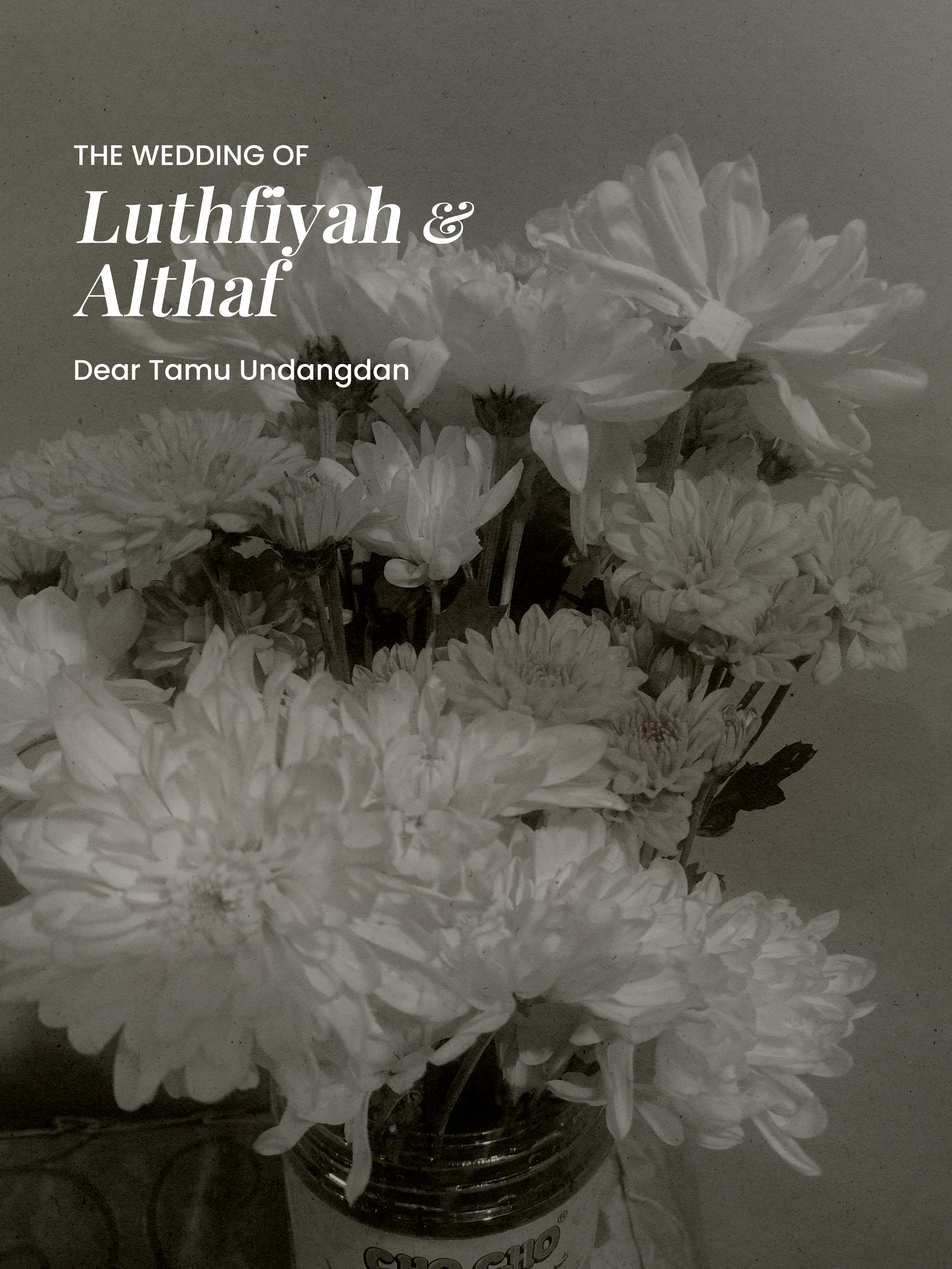
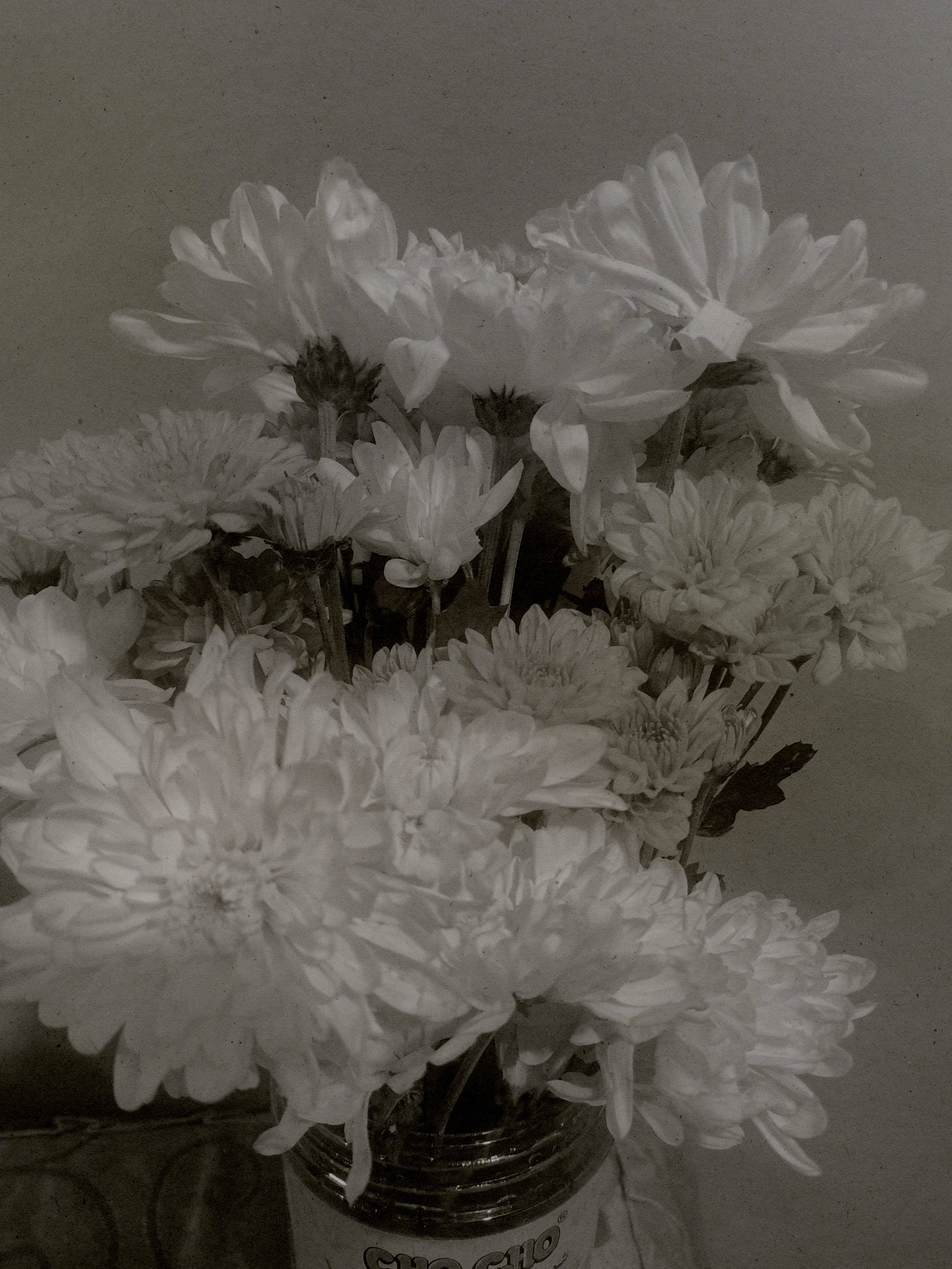
adjust desktop text

Changed region(s): [[0.093, 0.0938, 0.496, 0.25], [0.062, 0.2812, 0.434, 0.3125]]

diff --git a/style.css b/style.css
@@ -23,10 +23,27 @@ body {
   justify-content: flex-end;
 }
 
-.desktop {
-  background-color: red;
-  border:1px solid red;
-  width: 500px;
+.desktop-wrapper {
+  z-index: -1;
+  position: absolute;
+  top: 100px;
+  left: 100px;
+}
+
+.desktop-wrapper > p,
+.desktop-wrapper > h1 {
+  color: white;
+}
+
+.desktop-wrapper > h1 {
+  font-family: "Playfair Display";
+  font-style: italic;
+  font-size: 150px;
+}
+
+.desktop-wrapper > p {
+  color: white;
+  font-size: 50px;
 }
 
 #playback {
@@ -1270,6 +1287,36 @@ p {
   text-align: center;
   width: 60%;
   padding-top: 30px;
+}
+
+@media screen and (max-width: 1440px) {
+  .desktop-wrapper {
+    top: 75px;
+    left: 75px;
+  }
+
+  .desktop-wrapper > h1 {
+    font-size: 100px;
+  }
+
+  .desktop-wrapper > p {
+    font-size: 30px;
+  }
+}
+
+@media screen and (max-width: 1200px) {
+  .desktop-wrapper {
+    top: 40px;
+    left: 40px;
+  }
+
+  .desktop-wrapper > h1 {
+    font-size: 60px;
+  }
+
+  .desktop-wrapper > p {
+    font-size: 20px;
+  }
 }
 
 @media screen and (orientation:portrait) {

diff --git a/index.html b/index.html
@@ -18,6 +18,13 @@
   </head>
   <body>
 
+    <div class="desktop-wrapper">
+      <p>THE WEDDING OF</p>
+      <h1>Luthfiyah &</h1>
+      <h1>Althaf</h1>
+      <p id="desktop-to">Dear Tamu Undangan</p>
+    </div>
+
     <audio id="song" loop>
       <source src="./assets/audio/backsound.mp3" type="audio/mp3">
     </audio>

diff --git a/script.js b/script.js
@@ -3,6 +3,7 @@ $(function() {
   const params = new URLSearchParams(window.location.search);
   const to = params.get("to") || "Tamu Undangan";
   $("#to").text(to);
+  $("#desktop-to").text(`Dear ${to}`);
   // $("#wish-nama").val(to);
 
   // $("section").hide();
